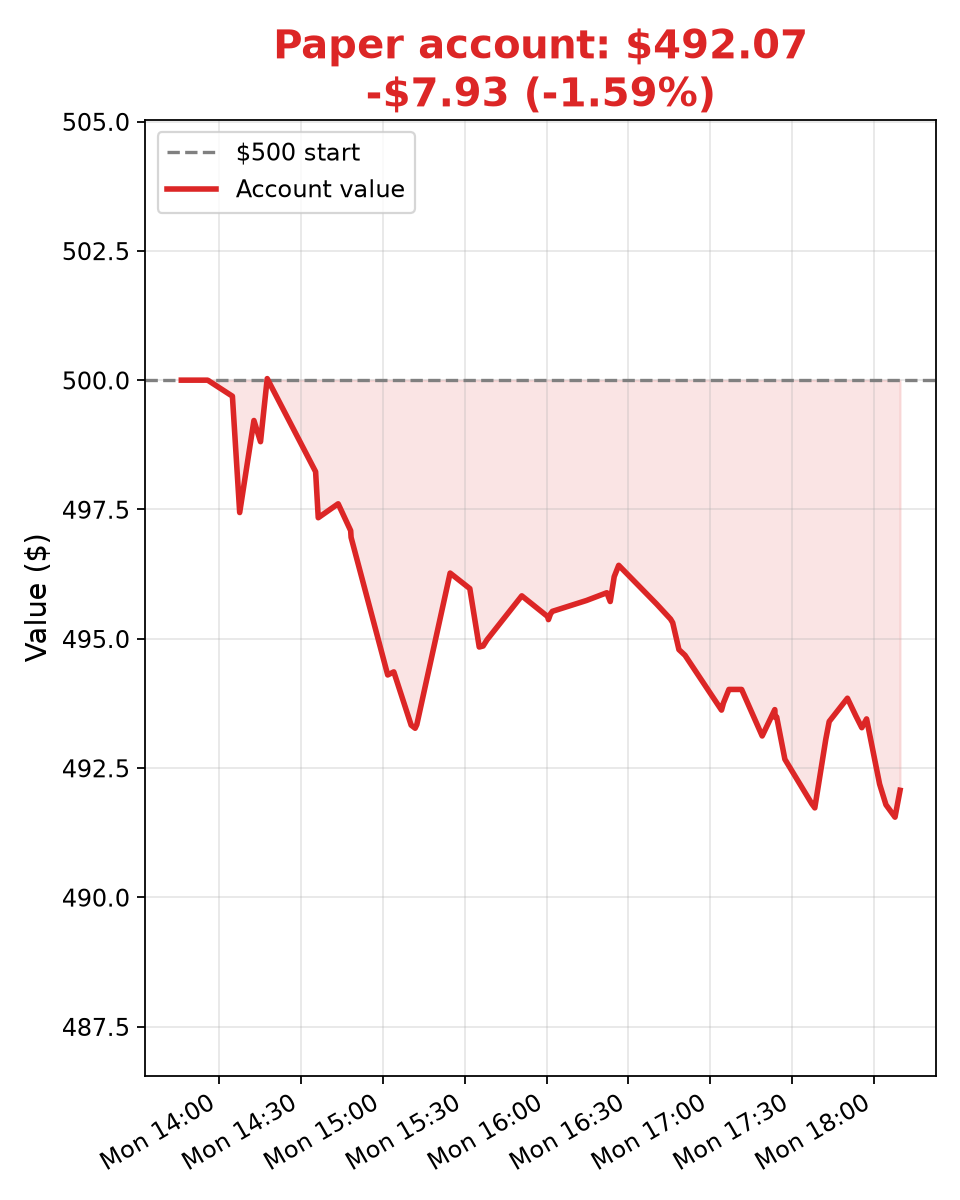
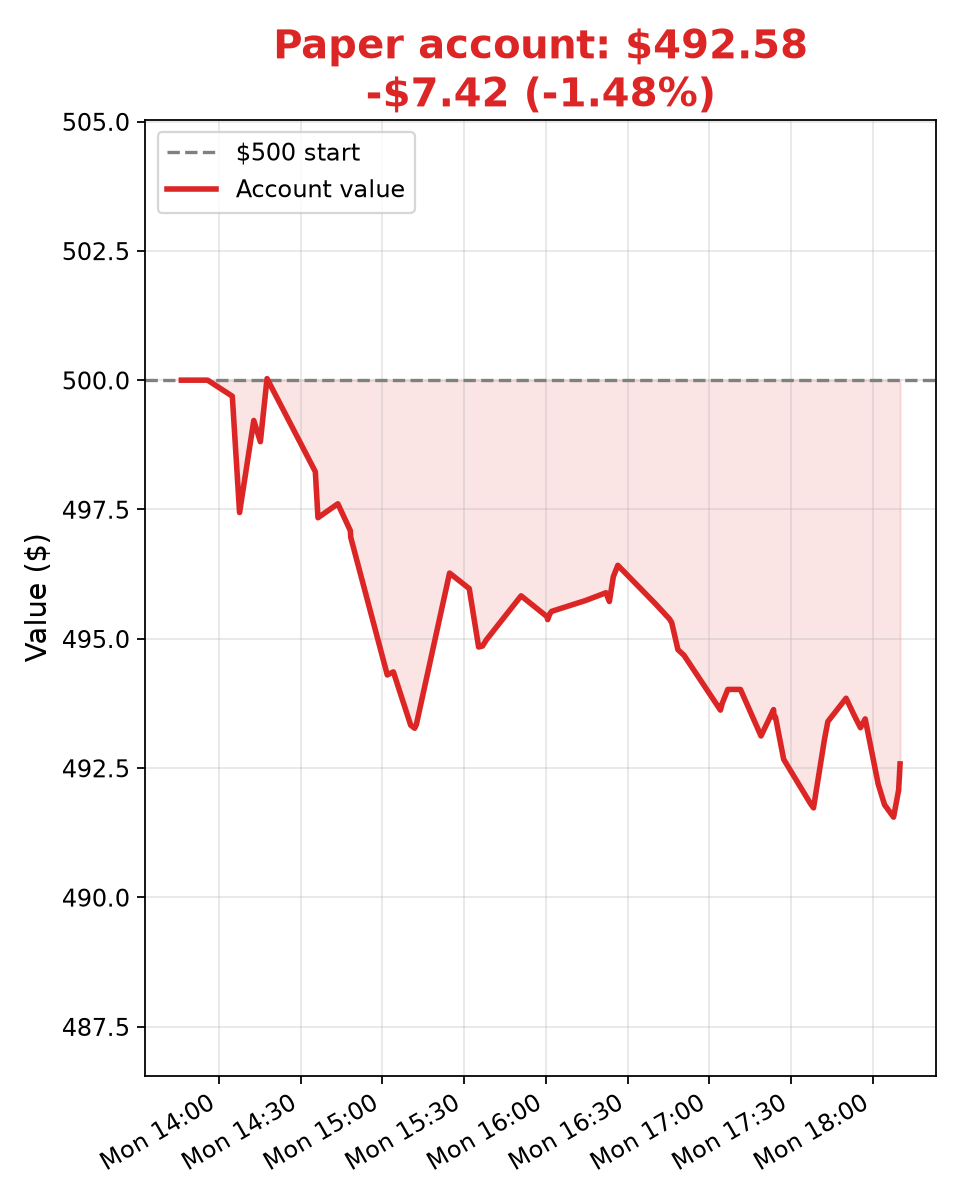
Update 2026-10-12T18:10:17Z

diff --git a/ledger.md b/ledger.md
@@ -94,3 +94,4 @@
 - 2026-10-12T18:04:20Z — total $491.79, cash $98.62 (Bot1 mark, no trade; FRO 58.52, DHT 25.765, ASTS 52.61 marked; no stops/targets hit — ASTS new LOD 52.56, stop 52.40 ~0.4% away)
 - 2026-10-12T18:07:39Z — total $491.55, cash $98.62 (Bot4 mark, no trade; FRO 58.50, DHT 25.73, ASTS 52.61 marked; no stops/targets hit — ASTS new LOD 52.47 at 18:04, stop 52.40 only ~0.4% from last, 0.07 under LOD; tankers drifting near afternoon lows)
 - 2026-10-12T18:09:30Z — total $492.07, cash $98.62 (Bot2 mark, no trade; FRO 58.59, DHT 25.80, ASTS 52.56 marked; no stops/targets hit — ASTS held 52.47 LOD, stop 52.40 ~0.3% away; tankers ticking up off 18:05 lows)
+- 2026-10-12T18:10:02Z — total $492.58, cash $98.62 (Stock Bot mark, no trade; FRO 58.725, DHT 25.86, ASTS 52.471 marked; no stops/targets hit — ASTS tagged new LOD 52.47 at 18:04 and is back there, 0.07 above 52.40 stop; tankers bounced off 18:05 lows)
